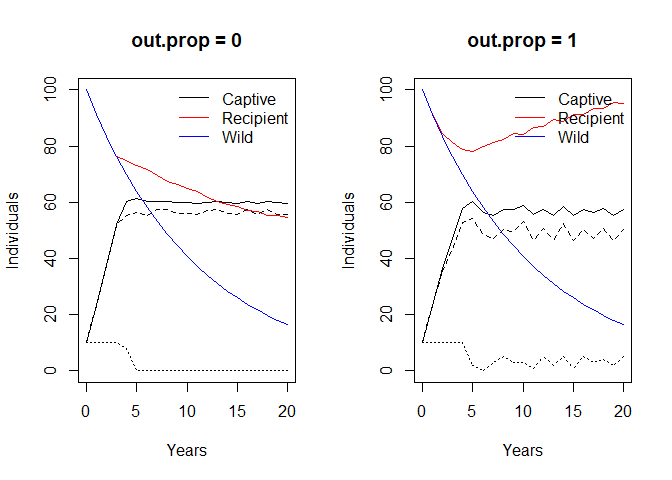
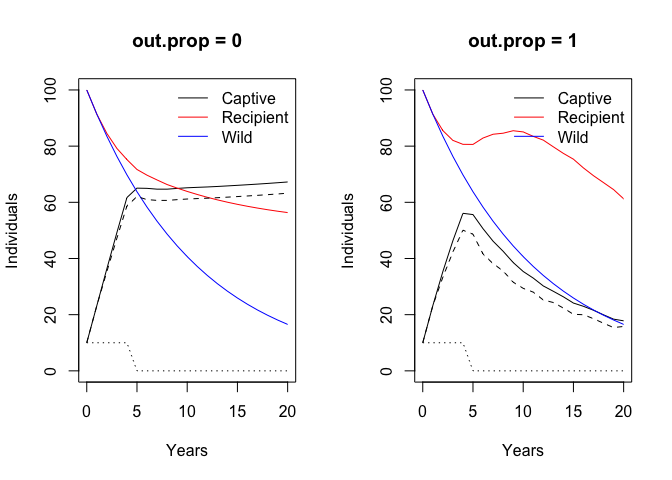
updated readme

diff --git a/README.md b/README.md
@@ -183,51 +183,57 @@ caribou_matrix(s, wild=FALSE) # captive
 ## Compare scenarios for captive breeding
 ## out.prop = 0: move only N[t]-in.max youngs
 x0 <- caribou_breeding(s,
-    age.cens = 18,    # proj matrix censored at this age
     tmax = 20,        # projection horizon
-    in.age = c(3, 4), # 5x 3yr + 5x 4yr female --> captive
-    in.inds = c(5, 5),
-    in.max = 60,      # capacity of breeding facility
-    out.age = c(1, 2),# 1 and 2yr calves --> recipient
-    out.prop = 0)
+    in.inds = rep(10, 5),
+    out.prop = 0.5)
 x0
 #> Caribou captive breeding:
 #> 
 #>  - tmax     :20
 #>  - pop.start:100
-#>  - in.max   :60
-#>  - out.prop :0
+#>  - out.prop :0.5
 #> 
-#>  Ncapt Nrecip  Nwild 
-#>  59.56  54.76  16.54
+#>          capt   recip   wild
+#> N      67.242 56.3459 16.539
+#> lambda  1.004  0.9914  0.914
 summary(x0)
 #>    Years Nin Nout    Ncapt    Nrecip     Nwild
 #> 1      0  10    0 10.00000 100.00000 100.00000
 #> 2      1  10    0 23.18380  91.39560  91.39560
-#> 3      2  10    0 37.33182  83.53156  83.53156
-#> 4      3  10    0 52.13296  76.34417  76.34417
-#> 5      4   8    5 60.32740  74.77522  69.77522
-#> 6      5   0    5 61.30754  73.03648  63.77148
-#> 7      6   0    5 60.25846  71.85677  58.28433
-#> 8      7   0    3 60.39753  69.48162  53.26931
-#> 9      8   0    3 60.40149  67.38260  48.68581
-#> 10     9   0    4 59.95943  66.17652  44.49669
-#> 11    10   0    4 59.90962  64.75278  40.66802
-#> 12    11   0    4 59.51499  63.76250  37.16878
-#> 13    12   0    3 59.95682  61.87466  33.97063
-#> 14    13   0    3 60.27493  60.20821  31.04766
-#> 15    14   0    4 59.92817  59.38578  28.37620
-#> 16    15   0    4 59.74541  58.58360  25.93460
-#> 17    16   0    3 60.28610  57.14619  23.70308
-#> 18    17   0    4 59.62999  56.89708  21.66357
-#> 19    18   0    3 60.34917  55.31162  19.79955
-#> 20    19   0    4 59.79264  55.20203  18.09592
-#> 21    20   0    4 59.56152  54.76152  16.53888
+#> 3      2  10    1 36.33182  84.53156  83.53156
+#> 4      3  10    2 49.22996  79.19717  76.34417
+#> 5      4  10    3 61.70599  75.20883  69.77522
+#> 6      5   0    3 65.04446  71.69185  63.77148
+#> 7      6   0    4 64.97138  69.65794  58.28433
+#> 8      7   0    4 64.68270  67.96027  53.26931
+#> 9      8   0    4 64.67842  66.32655  48.68581
+#> 10     9   0    4 64.94646  65.05482  44.49669
+#> 11    10   0    4 65.17513  63.87539  40.66802
+#> 12    11   0    4 65.32882  62.79033  37.16878
+#> 13    12   0    4 65.46682  61.78874  33.97063
+#> 14    13   0    4 65.64046  60.87521  31.04766
+#> 15    14   0    4 65.83908  60.04108  28.37620
+#> 16    15   0    4 66.04654  59.27907  25.93460
+#> 17    16   0    4 66.25912  58.58247  23.70308
+#> 18    17   0    4 66.48284  57.94576  21.66357
+#> 19    18   0    4 66.72118  57.36382  19.79955
+#> 20    19   0    4 66.97435  56.83197  18.09592
+#> 21    20   0    4 67.24185  56.34588  16.53888
 
-## out.prop = 1: move all youngs and replace with females
+## out.prop = 1: move all youngs
 x1 <- update(x0, out.prop = 1)
+x1
+#> Caribou captive breeding:
+#> 
+#>  - tmax     :20
+#>  - pop.start:100
+#>  - out.prop :1
+#> 
+#>           capt   recip   wild
+#> N      17.8090 61.2520 16.539
+#> lambda  0.9674  0.9494  0.914
 
-## Vicualize the 2 scenarios
+## Visualize the 2 scenarios
 op <- par(mfrow=c(1, 2))
 plot(x0, main="out.prop = 0")
 plot(x1, main="out.prop = 1")
